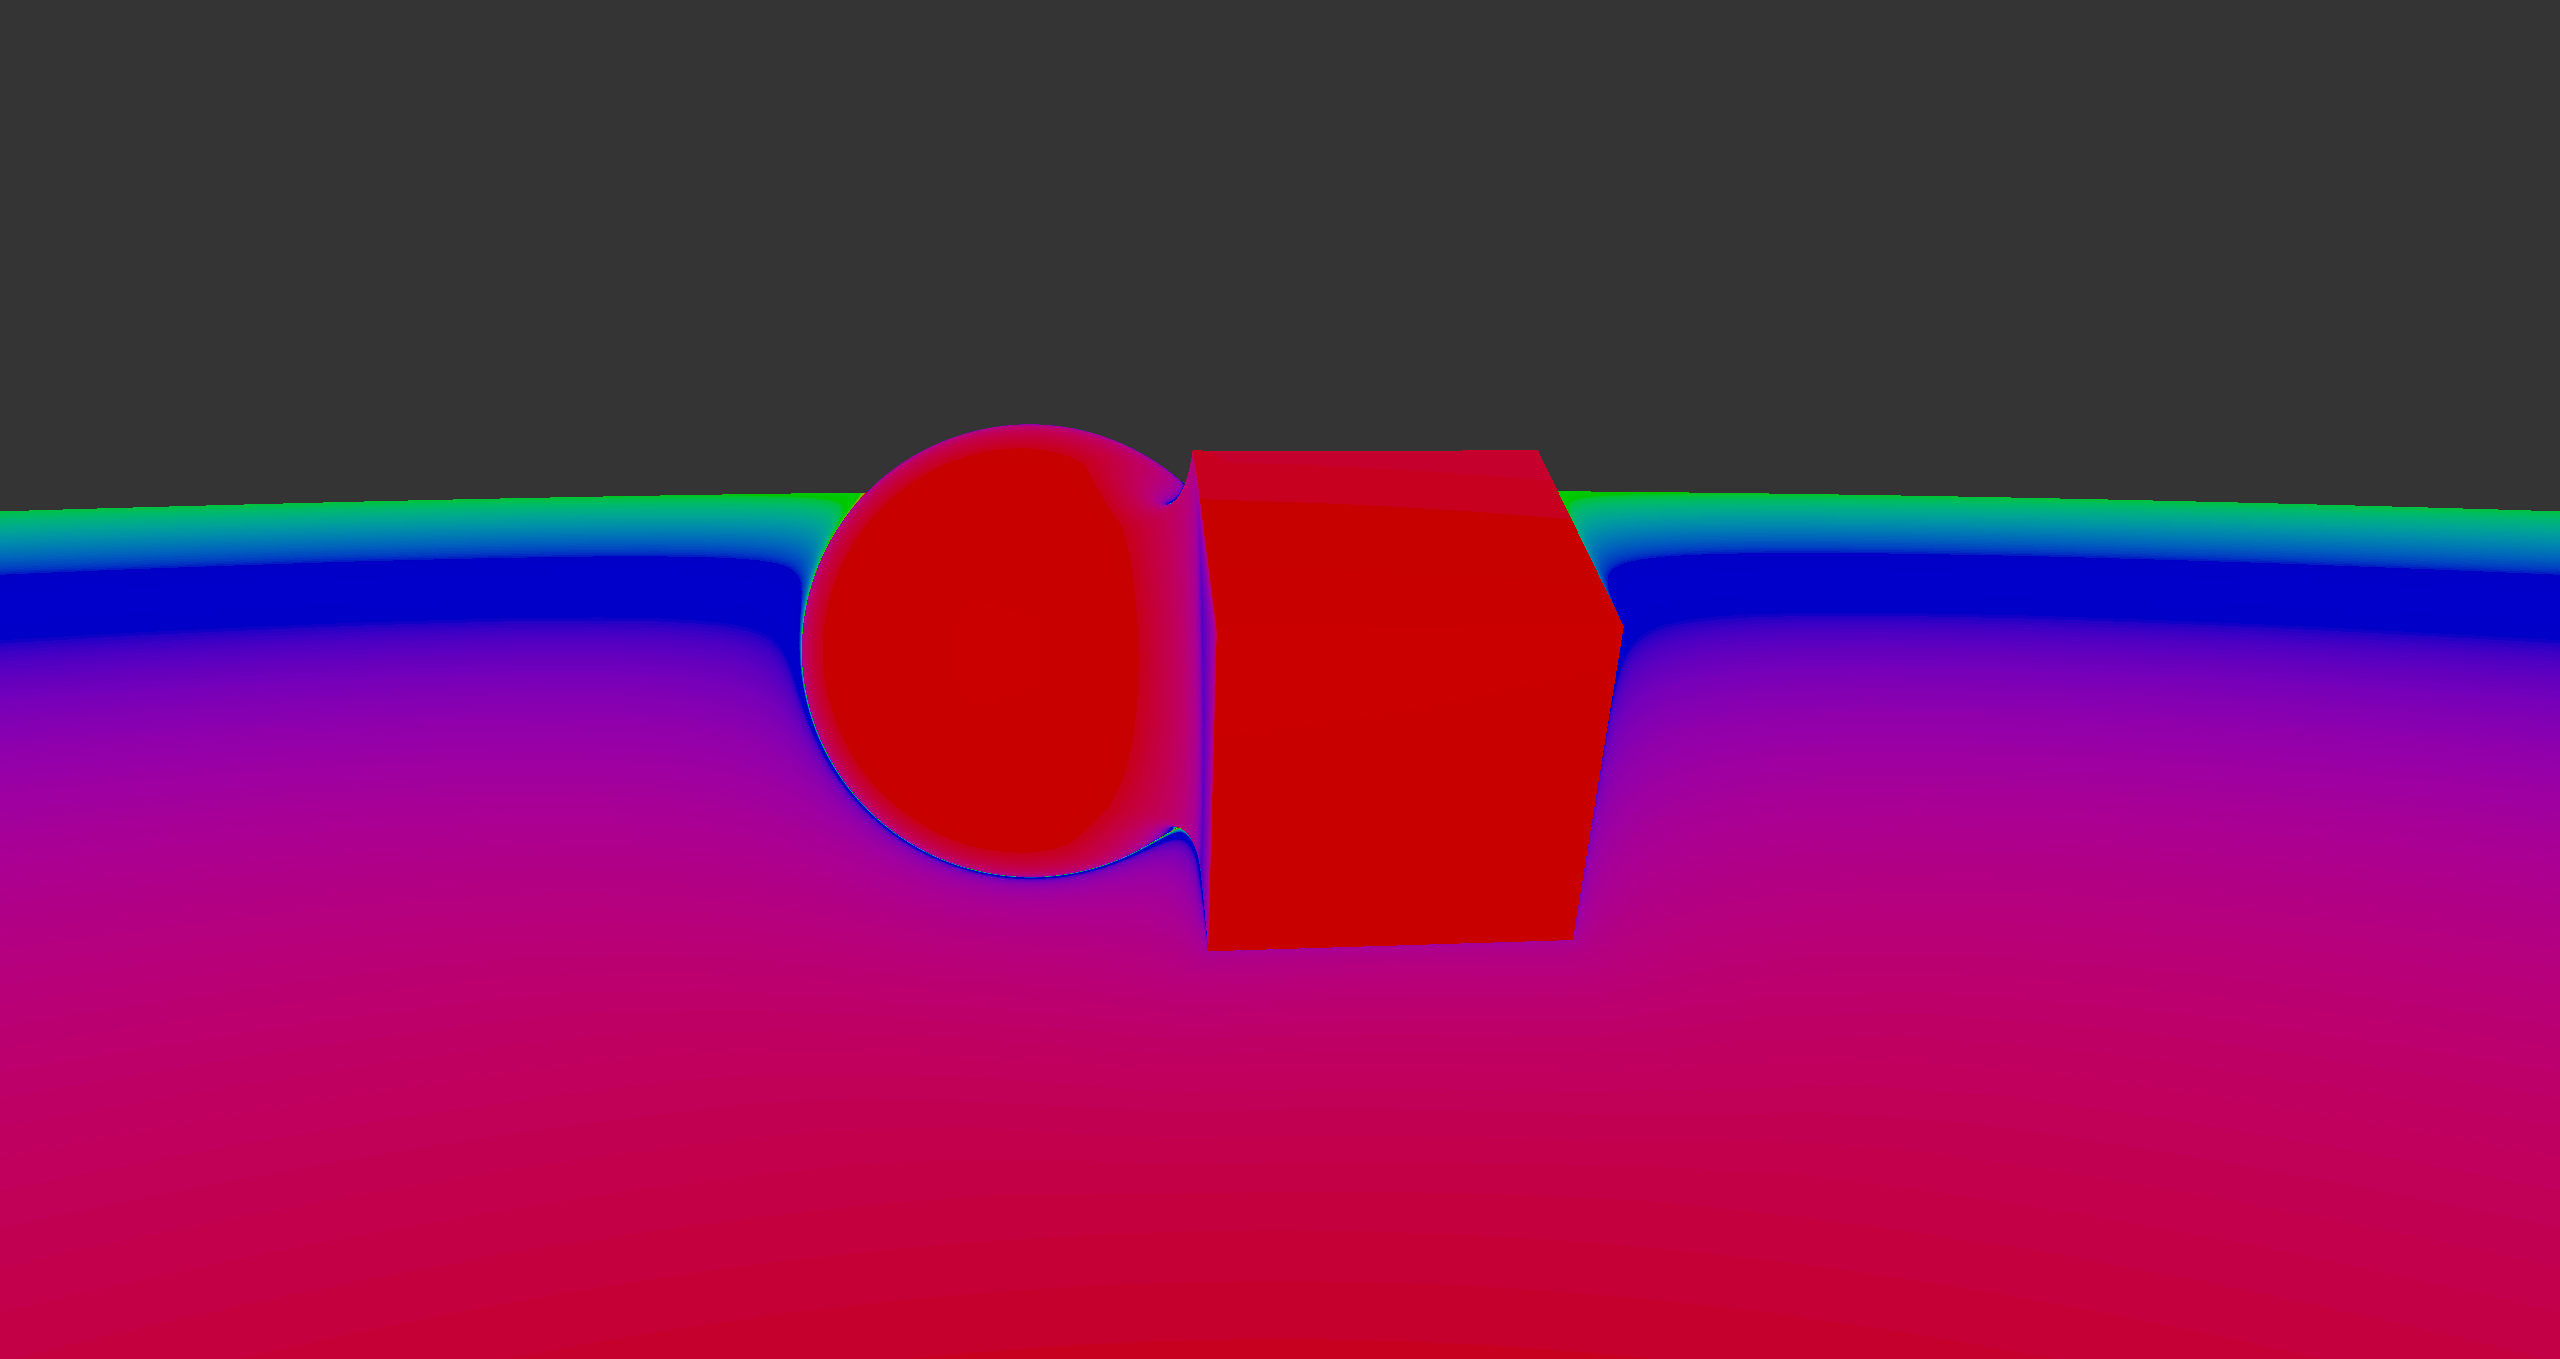
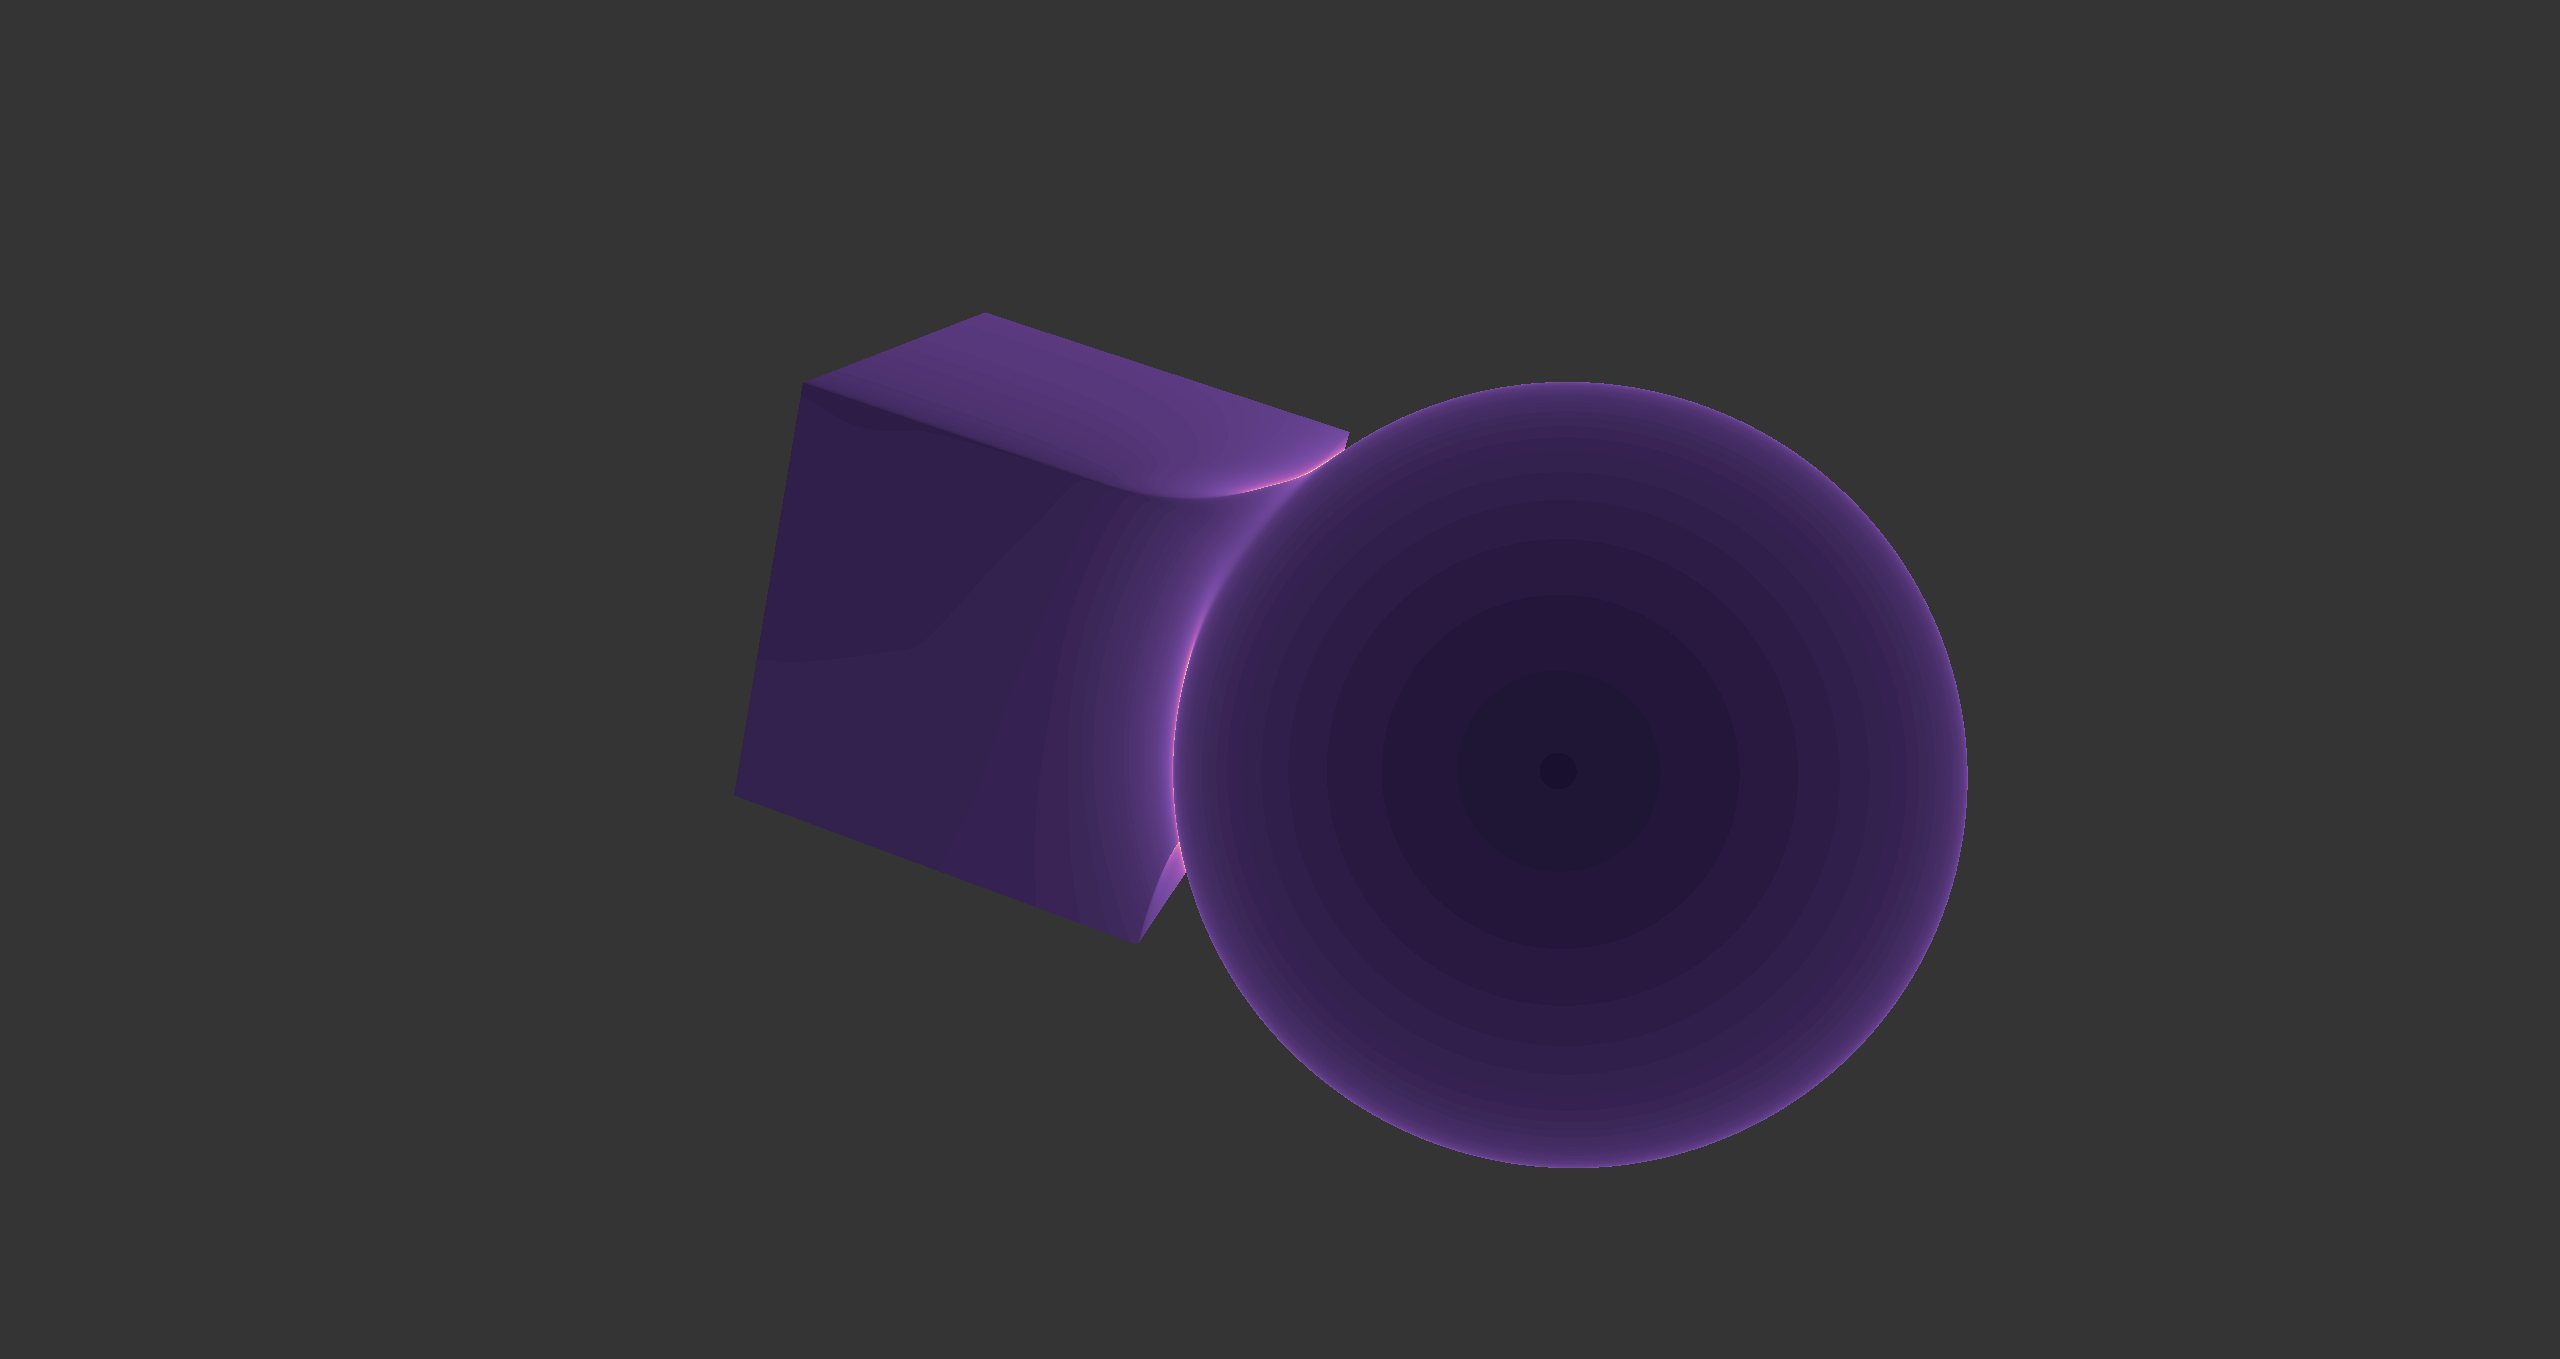
Updated code

diff --git a/main.js b/main.js
@@ -34,6 +34,31 @@ const dom = {
     canvas:     document.getElementById('canvas-container'),
 };
 
+// Create a 256x1 pixel Canvas
+const canvas = document.createElement('canvas');
+canvas.width = 256;
+canvas.height = 1;
+const context = canvas.getContext('2d');
+
+// Draw the Magma gradient
+const gradient = context.createLinearGradient(0, 0, 256, 0);
+gradient.addColorStop(0.000, '#000004'); // Black
+gradient.addColorStop(0.166, '#2d115e'); // Deep Purple
+gradient.addColorStop(0.333, '#721c84'); // Magenta
+gradient.addColorStop(0.500, '#ba3471'); // Red/Pink
+gradient.addColorStop(0.666, '#f06852'); // Orange
+gradient.addColorStop(0.833, '#fcb572'); // Light Orange
+gradient.addColorStop(1.000, '#fbfcbf'); // Pale Yellow
+
+context.fillStyle = gradient;
+context.fillRect(0, 0, 256, 1);
+
+// Convert Canvas to a Three.js Texture
+const magmaLUT = new THREE.CanvasTexture(canvas);
+magmaLUT.minFilter = THREE.LinearFilter;  // Ensure smooth interpolation
+magmaLUT.magFilter = THREE.LinearFilter;
+magmaLUT.generateMipmaps = false;         // Not needed for a 1D LUT
+
 // ── Editor (CodeJar) ─────────────────────────────────────────────────────────
 // Fix Enter key: CodeJar intercepts it; we re-bind to insert a real newline
 const highlight = (el) => window.Prism?.highlightElement(el);
@@ -113,6 +138,7 @@ function buildScene(vert, frag) {
         uCameraWorldMatrix:             { value: sdfCamera.matrixWorld },
         uCameraProjectionMatrixInverse: { value: sdfCamera.projectionMatrixInverse },
         iMode:       { value: 0 },
+        uMagmaLUT: { value: magmaLUT }
     };
 
     material = new THREE.RawShaderMaterial({
@@ -225,12 +251,13 @@ function setupUI() {
 
     // Mode toggle (shaded ↔ heatmap)
     dom.btnMode.onclick = () => {
-        const next = (uniforms.iMode.value + 1) % 3;
+        const next = (uniforms.iMode.value + 1) % 4;
         uniforms.iMode.value = next;
-        dom.modeLabel.textContent = next === 0 ? 'shaded' : next === 1 ? 'heatmap' : 'normal';
+        dom.modeLabel.textContent = next === 0 ? 'shaded' : next === 1 ? 'heatmap' : next === 2 ? 'normal' : 'depthmap';
         dom.btnMode.classList.toggle('shaded-btn', next === 0);
         dom.btnMode.classList.toggle('heatmap-btn', next === 1);
         dom.btnMode.classList.toggle('normal-btn', next === 2);
+        dom.btnMode.classList.toggle('depthmap-btn', next === 3);
     };
 
     // Screenshot

diff --git a/README.md b/README.md
@@ -3,7 +3,17 @@ A simple Signed Distance Field viewer
 
 ## Render Mode Comparison
 
-| Standard RGB | Surface Normals | Distance Heatmap |
-| :---: | :---: | :---: |
-| <img src="media/rgb.png" width="100%"> | <img src="media/normals.png" width="100%"> | <img src="media/heatmap.png" width="100%"> |
-| *Final shading with light.* | *Gradient vectors.* | *Field density map.* |
+| Standard RGB | Surface Normals |
+| :---: | :---: |
+| <img src="media/rgb.png" width="100%"> | <img src="media/normals.png" width="100%"> |
+| *Final shading with light.* | *Gradient vectors.* |
+
+| Depthmap | Step Count Heatmap |
+| :---: | :---: |
+| <img src="media/depthmap.png" width="100%"> | <img src="media/normals.png" width="100%"> |
+| *Depth map of surface* | *Number of steps* |
+
+## Observations
+- As expected, around the edges of the primitives, more steps are required.
+- We can union the primitives smoothly
+- The render is sensitive to number of steps and epsilon
